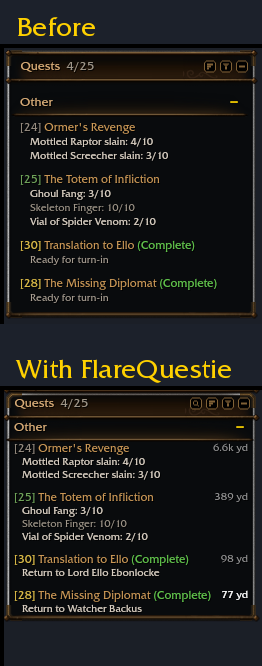
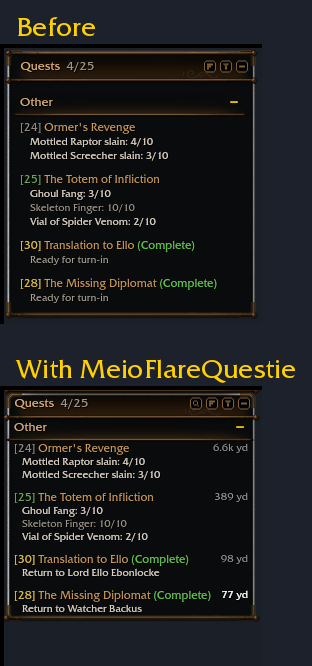
MeioFlareQuestie folder, settings keys, README and before/after for the new name
Settings variables are now MEIOFLAREQUESTIE_*: the old FlareQuestie folder, still loaded
beside the new one, registered FLAREQUESTIE_* first and our registration failed.

Claude-Session: https://claude.ai/code/session_01FpmmnsjePybZYbUh4cq3j7

Changed region(s): [[0.0, 0.5405, 1.0, 0.9309], [0.0, 0.0601, 1.0, 0.4805], [0.0611, 0.03, 0.3664, 0.0601]]

diff --git a/README.md b/README.md
@@ -2,7 +2,7 @@
 
 Questie's quest data in FlareUI's quest tracker: how far each quest is and who to hand it in to.
 
-![FlareUI's quest tracker with four quests in Duskwood: before, only the objectives and "Ready for turn-in"; with FlareQuestie, yards to each quest and "Return to Lord Ello Ebonlocke"](docs/before-after.png)
+![FlareUI's quest tracker with four quests in Duskwood: before, only the objectives and "Ready for turn-in"; with MeioFlareQuestie, yards to each quest and "Return to Lord Ello Ebonlocke"](docs/before-after.png)
 
 ## What it does
 
@@ -18,7 +18,7 @@ Questie's quest data in FlareUI's quest tracker: how far each quest is and who t
 The quest count turns orange at 2 free log slots and red when the log is full. Drag the
 grip in the tracker's free corner to resize it.
 
-Settings: Esc > Options > AddOns > FlareQuestie
+Settings: Esc > Options > AddOns > MeioFlareQuestie
 
 - `/flarequestie`: settings
 - `/flarequestie help`: the list of commands
@@ -34,7 +34,7 @@ Settings: Esc > Options > AddOns > FlareQuestie
 Needs FlareUI with its quest tracker on, and Questie (without it, only resizing and compact
 spacing work).
 
-FlareUI's tracker has no way for another addon to plug in, so most of FlareQuestie needs
+FlareUI's tracker has no way for another addon to plug in, so most of MeioFlareQuestie needs
 three small FlareUI patches. Without them it says so at login.
 
 1. Install PowerShell 7: `winget install Microsoft.PowerShell`
@@ -45,8 +45,8 @@ three small FlareUI patches. Without them it says so at login.
 
 It copies the addon and patches `FlareUI\Modules\ObjectiveTracker.lua`, keeping a backup in
 `backups\`. Each patch in `patches\` shows the old and new lines. A FlareUI update undoes
-them: run it again (`mods.ps1 status` checks without changing anything). Without FlareQuestie
-the patched tracker works exactly like FlareUI's own.
+them: run it again (`mods.ps1 status` checks without changing anything).
+Without MeioFlareQuestie the patched tracker works exactly like FlareUI's own.
 
 ## Feedback
 
